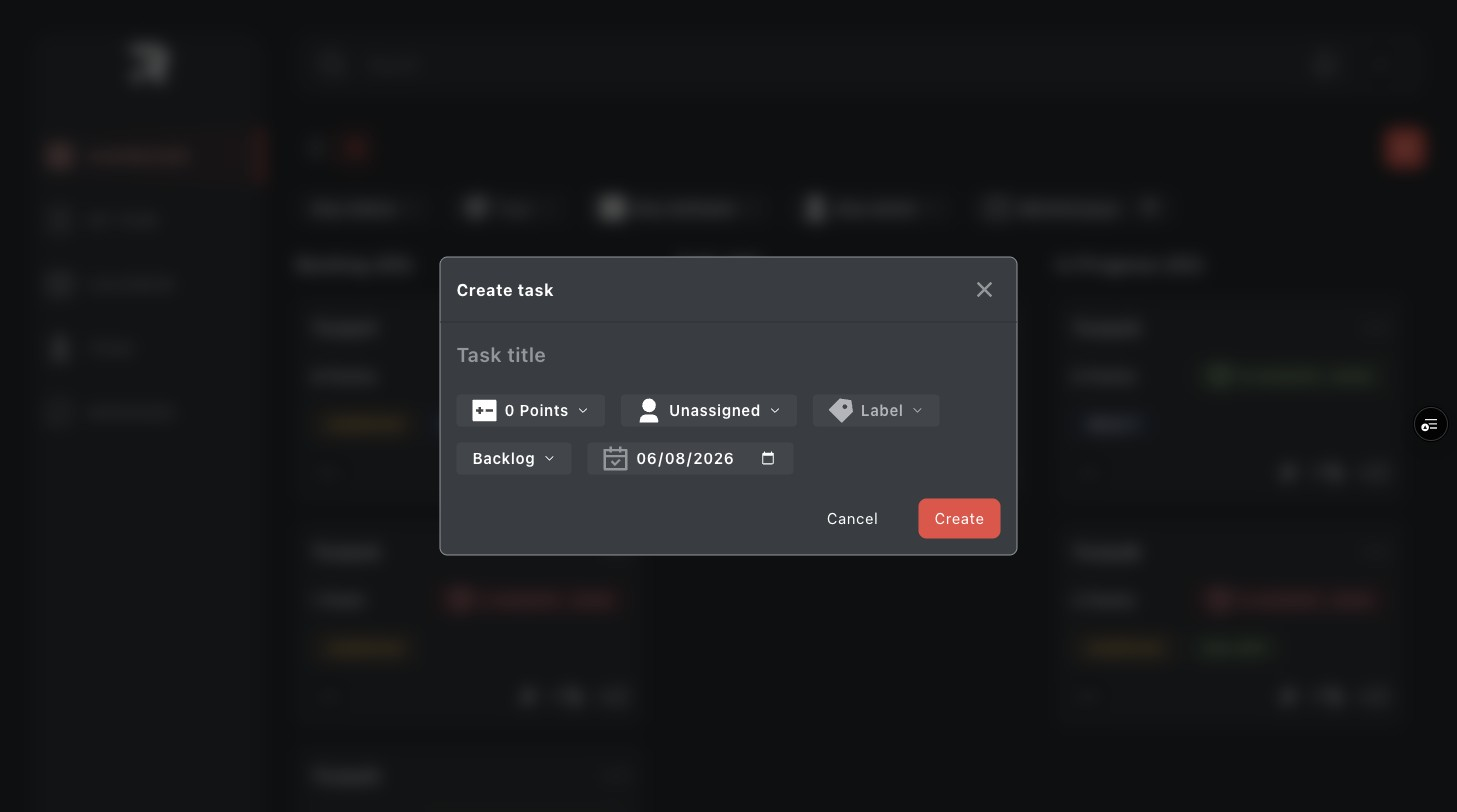
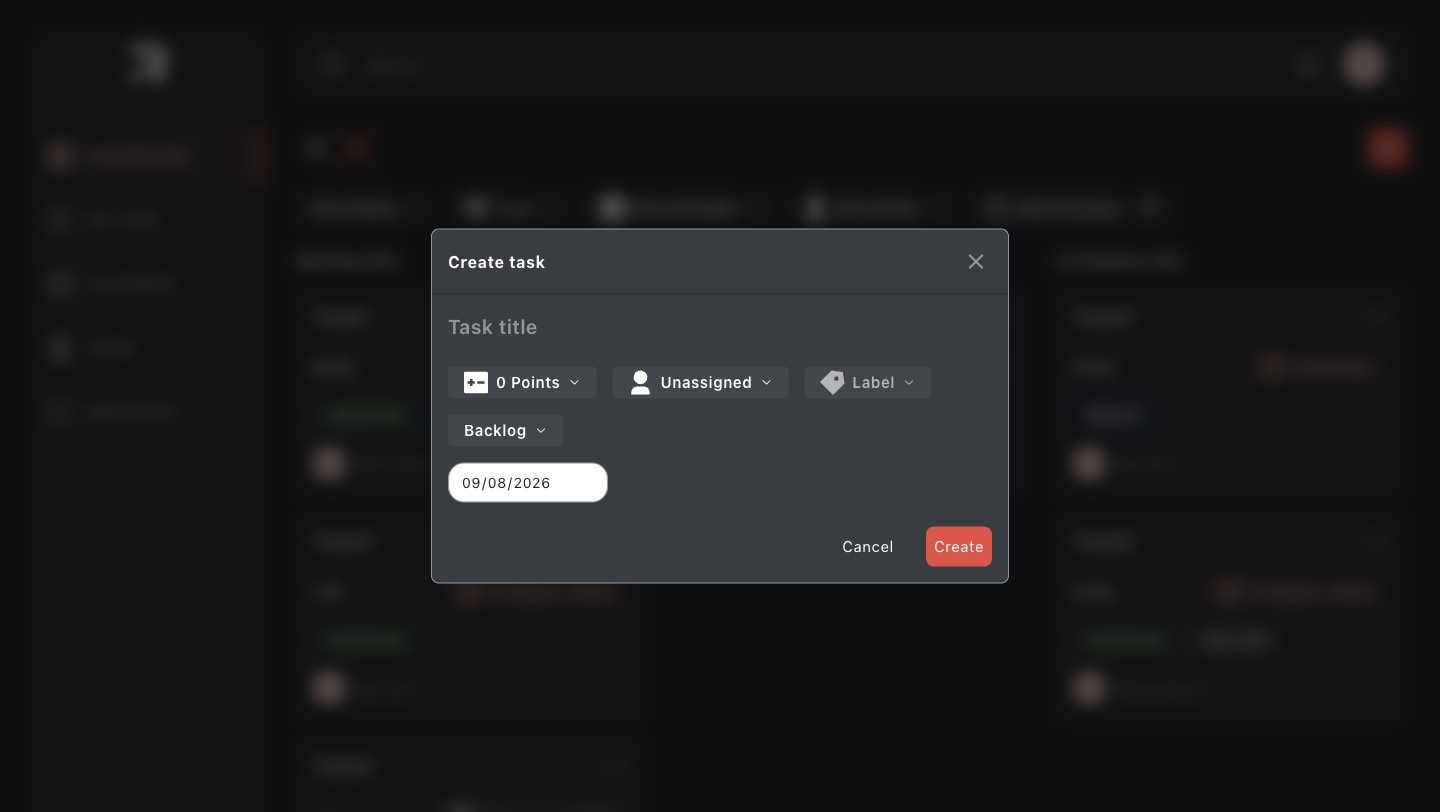
docs: recapture the screenshots against the app that exists now (#133)
The set was last recaptured at `2b499fb`, 110 commits before this branch's base
(`git rev-list --count 2b499fb..ded30a1`), and the README embeds all five — so
the first thing a reviewer sees was contradicted by the second. Four of the five
showed an app that no longer exists: tag chips in the pre-#124 palette, the
hardcoded attachment/subtask/comment counters `to-kit-props.ts` deliberately
never passes, and an app-owned row list where the list view is now the kit's
`TaskTable`. `settings.jpg` had changed only in the avatar's styling and is
recaptured anyway, so the set shares one viewport instead of mixing 1457x812
with 1200x736.

Every shot was opened and compared rather than assumed, which is what the stale
set was produced by not doing.

The white date field in `create-task.jpg` is left visible and captioned. It is
`ravn-ui-kit#130` — the kit's `Datepicker` hardcodes `bg-surface-neutral`, the
same mistake `Select`'s trigger already fixed, in a component never swept when
that fix landed. A screenshot edited to hide what the app renders stops being a
record and becomes a claim, and prettifying the app for a screenshot is the
kit-workaround the standing rule forbids, in its purest form. Bare it reads as
carelessness; with the issue number beside it, it reads as what it is.

Two corrections from review, both the same class as the PR itself. The sentence
under the table claimed the images were captures of *the deployed build*; they
[…]

diff --git a/README.md b/README.md
@@ -65,17 +65,27 @@ switch on.
 
 ## What it does
 
-|                                                      |                                                   |
-| ---------------------------------------------------- | ------------------------------------------------- |
-| ![Creating a task](docs/screenshots/create-task.jpg) | ![No results](docs/screenshots/empty-results.jpg) |
-| Creating a task                                      | Filters that match nothing                        |
-| ![Settings](docs/screenshots/settings.jpg)           | ![List layout](docs/screenshots/list-view.jpg)    |
-| The signed-in user — email redacted, see below       | The list layout                                   |
+|                                                       |                                                   |
+| ----------------------------------------------------- | ------------------------------------------------- |
+| ![Creating a task](docs/screenshots/create-task.jpg)  | ![No results](docs/screenshots/empty-results.jpg) |
+| Creating a task — the white date field is a known bug | Filters that match nothing                        |
+| ![Settings](docs/screenshots/settings.jpg)            | ![List layout](docs/screenshots/list-view.jpg)    |
+| The signed-in user — email redacted, see below        | The list layout                                   |
 
 The email field in that screenshot reads `[email redacted]`. The API's seeded profile is a real
 person at RAVN, and this repository is public, so the address is masked in the image rather than
-published in it. Nothing else in any screenshot is altered — they are captures of the deployed
-build against the live API.
+published in it. Nothing else in any screenshot is altered — they are captures of the app running
+against the live API, at one viewport, with no retouching.
+
+**That includes the white date field in the create dialog, which is a defect and is left
+visible.** It is
+[`ravn-ui-kit#130`](https://github.com/f3r21/ravn-ui-kit/issues/130): the kit's `Datepicker`
+hardcodes a white surface, so it is the one light control among the dialog's five pickers — the
+other four are the design's dark chip. It is the same mistake the kit's `Select` trigger already
+fixed, in a component that was never swept when that fix landed. The app does not paint over it, because
+[the standing rule](#the-design-system-is-a-separate-package) is that a kit defect is fixed in the
+kit and never worked around here — and a screenshot edited to hide what the app renders stops
+being a record and becomes a claim.
 
 - **Board** — five status columns, task cards with name, tags, due date, points, assignee
   and an options menu. Loading, error and empty states are three distinct things.
